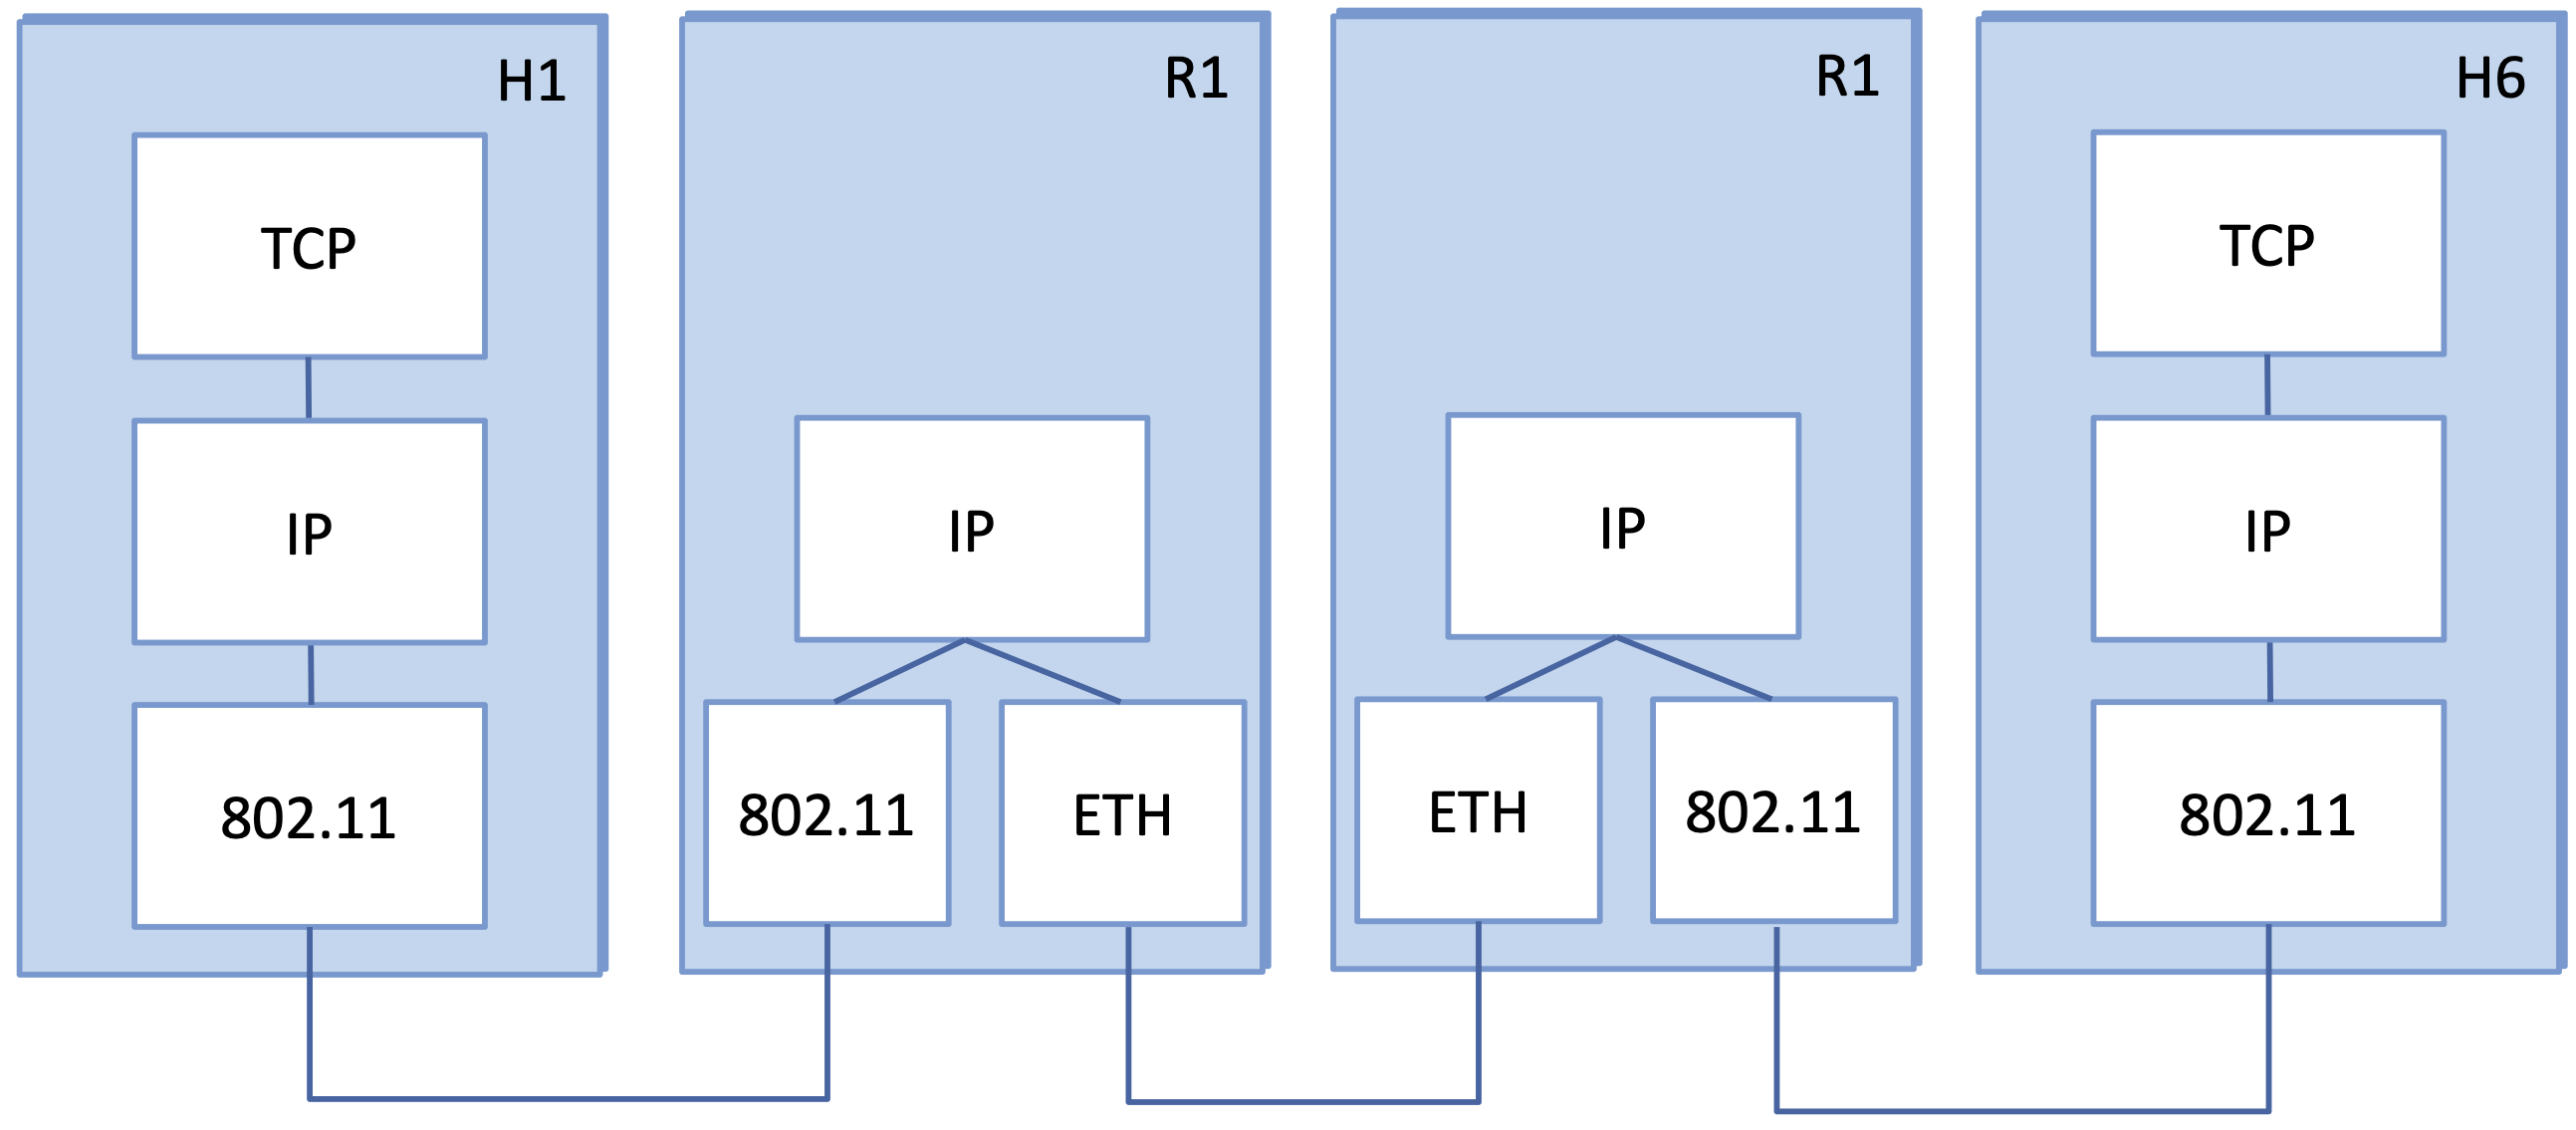
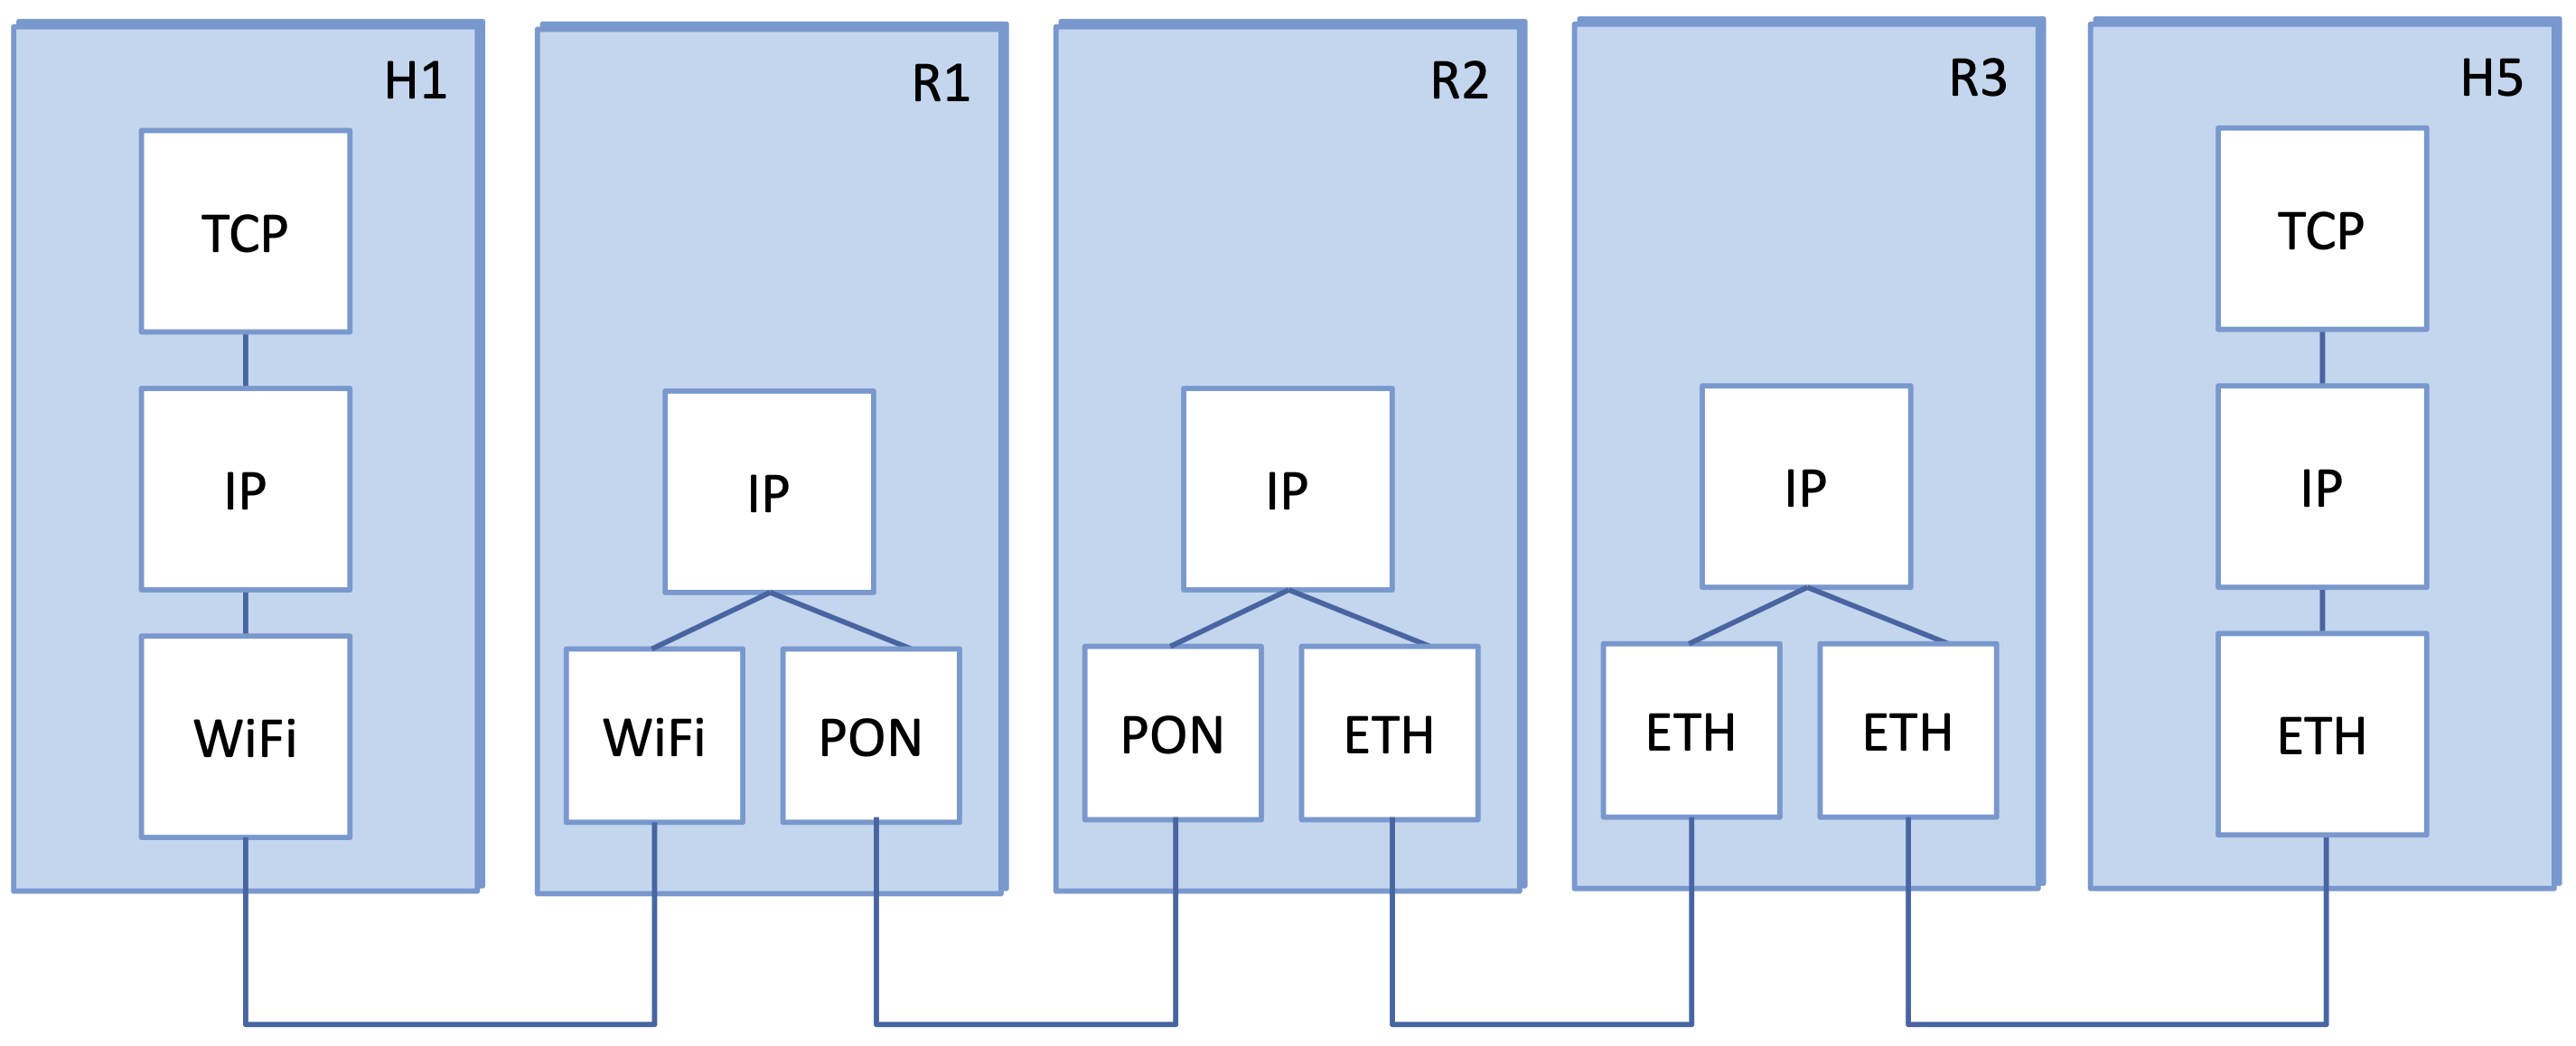
reworked inet example

diff --git a/federation/hetero.rst b/federation/hetero.rst
@@ -31,21 +31,37 @@ IP makes every effort to deliver datagrams, it makes no guarantees. We
 postpone a discussion of the addressing scheme for now and look first at
 the data delivery model.
 
-Datagram Delivery
+Before looking at the details of the IP service model, we first
+explain a bit of history. At the time IP was defined, the decision to
+make it connectionless was revolutionary. Telcos were the dominate
+communication provider, and they supported circuit-based service
+models. The circuit model defines a procedure to first establish an
+end-to-end connection, which includes allocating resources at all the
+switches along the circuit's path. Expecting a packet to successfully
+traverse a sequence of best-effort packet switches, each of which
+statistically multiplexes its resources, was innovative. As a
+consequence, early Internet documents referred to IP as providing a
+"connectionless datagram" service model, so as to distinguish it from
+the current standard practice. We usually refer to them as IP packets
+(rather than IP datagrams) in this book, since they are the current
+best practice, but any of the terms "best effort", "statistical
+multiplexing", and "connectionless datagram" should interpreted as
+roughly equivalent ways of talking about the same idea.
+
+Packet Delivery
 ++++++++++++++++++
 
-
-The IP datagram is fundamental to the Internet Protocol. Every
-datagram carries enough information to let the network forward the
-packet to its correct destination; there is no need for any advance
-setup mechanism to tell the network what to do when the packet
-arrives. You just send it, and the network makes its best effort to
-get it to the desired destination.  The “best-effort” part means that
-if something goes wrong and the packet gets lost, corrupted,
-misdelivered, or in any way fails to reach its intended destination,
-the network does nothing—it made its best effort, and that is all it
-has to do. It does not make any attempt to recover from the
-failure. This is sometimes called an *unreliable* service.
+The IP packet is fundamental to the Internet Protocol. Every packet
+carries enough information to let the network forward the packet to
+its correct destination; there is no need for any advance setup
+mechanism to tell the network what to do when the packet arrives. You
+just send it, and the network makes its best effort to get it to the
+desired destination.  The “best-effort” part means that if something
+goes wrong and the packet gets lost, corrupted, misdelivered, or in
+any way fails to reach its intended destination, the network does
+nothing—it made its best effort, and that is all it has to do. It does
+not make any attempt to recover from the failure. This is sometimes
+called an *unreliable* service.
 
 Best-effort, connectionless service is about the simplest service you
 could ask for from an internetwork, and this is its great strength. For
@@ -75,7 +91,7 @@ Packet Format
 +++++++++++++++++
 
 Clearly, a key part of the IP service model is the type of packets
-that can be carried. The IP datagram, like most packets, consists of a
+that can be carried. The IP packet consists of a
 header followed by a number of bytes of data. The format of the header
 (for IP version 4)
 is shown in :numref:`Figure %s <fig-iphead>`. As we saw in Chapter 4,
@@ -102,7 +118,7 @@ Looking at each field in the IP header, we see that the “simple” model
 of best-effort datagram delivery still has some subtle features. The
 ``Version`` field specifies the version of IP. The most widely deployed version
 of IP is 4, which is typically called *IPv4*. Observe that putting this
-field right at the start of the datagram makes it easy for everything
+field right at the start of the packet makes it easy for everything
 else in the packet format to be redefined in subsequent versions; the
 header processing software starts off by looking at the version and then
 branches off to process the rest of the packet according to the
@@ -115,9 +131,9 @@ differently based on application needs. For example, the ``TOS`` value
 might determine whether or not a packet should be placed in a special
 queue that receives low delay.
 
-The next 16 bits of the header contain the ``Length`` of the datagram,
+The next 16 bits of the header contain the ``Length`` of the packet,
 including the header. Unlike the ``HLen`` field, the ``Length`` field
-counts bytes rather than words. Thus, the maximum size of an IP datagram
+counts bytes rather than words. Thus, the maximum size of an IP packet
 is 65,535 bytes. The physical network over which IP is running, however,
 typically does not support such long packets. For this reason, IP supports a
 fragmentation and reassembly process. The second word of the header
@@ -316,11 +332,11 @@ packets, and it is those addresses that are used in IP routers to make
 forwarding decisions.
 
 
-6.2.3 Datagram Forwarding in IP
+6.2.3 Packet Forwarding
 ~~~~~~~~~~~~~~~~~~~~~~~~~~~~~~~
 
 We are now ready to look at the basic mechanism by which IP routers
-forward datagrams in an internetwork. Recall that *forwarding* is the
+forward packets in an internetwork. Recall that *forwarding* is the
 process of taking a packet from an input and sending it out on the
 appropriate output (we looked at this in depth in Chapter 2), while
 *routing* is the process of building up the tables that allow the
@@ -329,9 +345,9 @@ of this in Chapter 4). The discussion here focuses on forwarding; we
 return to routing in the next chapter.
 
 The main points to bear in mind as we discuss the forwarding of IP
-datagrams are the following:
+packets are the following:
 
--  Every IP datagram contains the IP address of the destination host.
+-  Every packet contains the IP address of the destination host.
 
 -  The network part of an IP address uniquely identifies a single
    physical network that is part of the larger Internet.
@@ -345,8 +361,8 @@ datagrams are the following:
    physical network; this router can exchange packets with hosts or
    routers on either network.
 
-Forwarding IP datagrams can therefore be handled in the following way. A
-datagram is sent from a source host to a destination host, possibly
+Forwarding IP packets can therefore be handled in the following way. A
+packet is sent from a source host to a destination host, possibly
 passing through several routers along the way. Any node, whether it is a
 host or a router, first tries to establish whether it is connected to
 the same physical network as the destination. To do this, it compares
@@ -359,10 +375,10 @@ interface, and the packet can be directly delivered over that network. A
 later section explains some of the details of this process.
 
 If the node is not connected to the same physical network as the
-destination node, then it needs to send the datagram to a router. In
+destination node, then it needs to send the packet to a router. In
 general, each node will have a choice of several routers, and so it
 needs to pick the best one, or at least one that has a reasonable chance
-of getting the datagram closer to its destination. The router that it
+of getting the packet closer to its destination. The router that it
 chooses is known as the *next hop* router. The router finds the correct
 next hop by consulting its forwarding table. The forwarding table is
 conceptually just a list of ``(NetworkNum, NextHop)``\ pairs. (As we
@@ -371,10 +387,10 @@ additional information related to the next hop.) Normally, there is also
 a default router that is used if none of the entries in the table
 matches the destination’s network number. For a host, it is more
 common to simply have a default router and nothing else—this means that all
-datagrams destined for hosts not on the physical network to which the
+packets destined for hosts not on the physical network to which the
 sending host is attached will be sent to the default router.
 
-We can describe the datagram forwarding algorithm in the following way:
+We can describe the forwarding algorithm in the following way:
 
 ::
 
@@ -397,26 +413,26 @@ forwarding table, this simplifies to
        deliver packet to default router
 
 Let’s see how this works in the example internetwork of :numref:`Figure
-%s <fig-inet>`. First, suppose that H1 wants to send a datagram to H2.
+%s <fig-inet>`. First, suppose that H1 wants to send a packet to H2.
 Since they are on the same physical network, H1 and H2 have the same
 network number in their IP address. Thus, H1 deduces that it can deliver
-the datagram directly to H2 over the Ethernet. The one issue that needs
+the packet directly to H2 over the Ethernet. The one issue that needs
 to be resolved is how H1 finds out the correct Ethernet address for
-H2—the address resolution mechanism known as ARP, described below, addresses this
-issue.
+H2—the address resolution mechanism known as ARP, described below,
+addresses this issue.
 
-Now suppose H5 wants to send a datagram to H8. Since these hosts are
-on different physical networks, they have different network numbers,
-so H5 deduces that it needs to send the datagram to a router. R1 is
-the only choice—the default router—so H1 sends the datagram over the
+Now suppose H1 wants to send a packet to H5. Since these hosts are on
+different physical networks, they have different network numbers, so
+H1 deduces that it needs to send the packet to a router. R1 is the
+only choice—the default router—so H1 sends the packet over the
 wireless network to R1. Similarly, R1 knows that it cannot deliver a
-datagram directly to H8 because neither of R1’s interfaces are on the
-same network as H8. Suppose R1’s default router is R2; R1 then sends
-the datagram to R2 over the Ethernet. Assuming R2 has the forwarding
-table shown in :numref:`Table %s <tab-ipfwdtab>`, it looks up H8’s
-network number (network 4) and forwards the datagram over the
-point-to-point network to R3. Finally, R3, since it is on the same
-network as H8, forwards the datagram directly to H8.
+packet directly to H5 because neither of R1’s interfaces are on the
+same network as H5. Suppose R1’s default router is R2; R1 sends the
+packet to R2 over the PON link.  Assuming R2 has the forwarding table
+shown in :numref:`Table %s <tab-ipfwdtab>`, it looks up H5’s network
+number (network 4) and forwards the packet over the packet-switched
+network to R3. Finally, R3, since it is on the same network as H5,
+forwards the packet directly to H5.
 
 .. _tab-ipfwdtab:
 .. table:: Forwarding table for Router R2.
@@ -432,11 +448,11 @@ network as H8, forwards the datagram directly to H8.
    +------------+---------+
 
 Note that it is possible to include the information about directly
-connected networks in the forwarding table. For example, we could label
-the network interfaces of router R2 as interface 0 for the
-point-to-point link (network 3) and interface 1 for the Ethernet
-(network 2). Then R2 would have the forwarding table shown
-in :numref:`Table %s <tab-ipfwdtab2>`.
+connected networks in the forwarding table. For example, we could
+label the network interfaces of router R2 as interface 0 for the
+Ethernet (network 3) and interface 1 for the point-to-point link
+(network 2). Then R2 would have the forwarding table shown in
+:numref:`Table %s <tab-ipfwdtab2>`.
 
 .. _tab-ipfwdtab2:
 .. table:: Complete Forwarding table for Router R2.
@@ -491,23 +507,23 @@ by no means the last) in achieving scalability.
    networks at the top level and nodes at the bottom level. We have
    aggregated information by letting routers deal only with reaching the
    right network; the information that a router needs to deliver a
-   datagram to any node on a given network is represented by a single
+   packet to any node on a given network is represented by a single
    aggregated piece of information.
 
 6.2.5 Address Translation (ARP)
 ~~~~~~~~~~~~~~~~~~~~~~~~~~~~~~~~
 
-We have talked about how to get IP datagrams to the
+We have talked about how to get IP packets to the
 right physical network but glossed over the issue of how to get a
-datagram to a particular host or router on that network. The main issue
-is that IP datagrams contain IP addresses, but the physical interface
-hardware on the host or router to which you want to send the datagram
+packet to a particular host or router on that network. The main issue
+is that IP packet contain IP addresses, but the physical interface
+hardware on the host or router to which you want to send the packet
 only understands the addressing scheme of that particular network. Thus,
 we need to translate the IP address to a link-level address that makes
 sense on this network (e.g., a 48-bit Ethernet or Wi-Fi address). We can then
-encapsulate the IP datagram inside a frame that contains that link-level
+encapsulate the IP packet inside a frame that contains that link-level
 address and send it either to the ultimate destination or to a router
-that promises to forward the datagram toward the ultimate destination.
+that promises to forward the packet toward the ultimate destination.
 
 
 The general solution is for each host to maintain a table of
@@ -526,7 +542,7 @@ currently stored in a host is known as the ARP cache or ARP table.
 
 ARP takes advantage of the fact that many link-level network
 technologies, such as Ethernet and Wi-Fi, support broadcast. If a host wants to
-send an IP datagram to a host (or router) that it knows to be on the
+send an IP packet to a host (or router) that it knows to be on the
 same network (i.e., the sending and receiving nodes have the same IP
 network number), it first checks for a mapping in the cache. If no
 mapping is found, it needs to invoke the Address Resolution Protocol
@@ -586,6 +602,6 @@ and target, the packet contains
 
 Note that the results of the ARP process can be added as an extra column
 in a forwarding table like the one in :numref:`Table %s <tab-ipfwdtab>`.
-Thus, for example, when R2 needs to forward a packet to network 2, it
-not only finds that the next hop is R1, but also finds the MAC address
-to place on the packet to send it to R1.
+Thus, for example, when R2 needs to forward a packet to network 3, it
+not only finds that the next hop is R3, but also finds the MAC address
+to place on the packet to send it to R3.

diff --git a/federation/design.rst b/federation/design.rst
@@ -60,23 +60,31 @@ Internet.
    :width: 600px
    :align: center
 
-   A simple internetwork, with two routers (R1 and R2) connecting
-   three networks.
+   A simplified internetwork, showing possible connectivity from a set
+   of Wi-Fi connected workstations to a set of servers in a remote
+   datacenter, via a PON access link and an Ethernet-based
+   backbone. The path traverses routers R1, R2, and R3.
 
 
 :numref:`Figure %s <fig-inet>` shows an example internetwork. An
 internetwork is often referred to as a “network of networks” because
 it is made up of lots of smaller networks. In this figure, we see a
-switched Ethernet and two Wi-Fi networks. Each of these is a
-single-technology network. The nodes that interconnect the networks
-are called *routers*.  They historically were also sometimes called
-*gateways*, but since this term has several other connotations, we
-restrict our usage to router.\ [#]_
+Wi-Fi based local network, a PON-based access network, a switched
+Ethernet (representing a wide-area backbone), and an Ethernet-based
+switching fabric in a datacenter. The nodes that interconnect the
+networks are called *routers*.  They historically were also sometimes
+called *gateways*, but since this term has several other connotations,
+we restrict our usage to router.\ [#]_
 
-.. [#] As we saw in Chapter 2, our other option is to call them L3
-   switches, but we reserve that name for when we use IP *within* a
-   packet-switched network, and we reserve the word "router" for a
-   device that interconnects two or more distinct networks.
+.. [#] As we saw in Chapter 2, whether a switch forwards L2 frames or
+       L3 packets is often a matter of configuration. This means our
+       other option is to call them L3 switches, but we reserve that
+       name for when we use IP *within* a packet-switched network—as
+       is often the case with a datacenter switching fabric or a
+       wide-area backbone—and we reserve the word "router" for a
+       forwarding device that interconnects two or more distinct
+       networks. This distinction is depicted in figures by using a
+       cylinder icon for a router.
 
 .. _fig-ip-graph:
 .. figure:: federation/figures/ip-graph.png
@@ -84,19 +92,22 @@ restrict our usage to router.\ [#]_
    :align: center
 
    A simple internetwork, showing the protocol layers used to connect
-   H1 to H6 in the above figure. ETH is the protocol that runs over
-   the Ethernet and 802.11 is the Wi-Fi protocol.
+   H1 to H5 in the previous figure. ETH denotes the MAC protocol that
+   connects to an Ethernet, PON denotes the MAC protocol that connects
+   to a Passive Optical Network, and Wi-Fi denotes the MAC protocol
+   that connects to Wi-Fi.
 
 The *Internet Protocol* is the key tool used today to build scalable,
 heterogeneous internetworks. It was originally known as the Kahn-Cerf
-protocol after its inventors. One way to think of IP is that it runs on
-all the nodes (both hosts and routers) in a collection of networks and
-defines the infrastructure that allows these nodes and networks to
-function as a single logical internetwork. For example, :numref:`Figure
-%s <fig-ip-graph>` shows how hosts H1 and H6 are logically connected by
-the internet in :numref:`Figure %s <fig-inet>`, including the protocol graph
-running on each node. Note that higher-level protocols, such as TCP and
-UDP, typically run on top of IP on the hosts.
+protocol after its inventors. One way to think of IP is that it runs
+on all the nodes (both hosts and routers) in a collection of networks
+and defines the infrastructure that allows these nodes and networks to
+function as a single logical internetwork. For example,
+:numref:`Figure %s <fig-ip-graph>` shows how hosts H1 and H5 are
+logically connected by the internet in :numref:`Figure %s <fig-inet>`,
+including the protocol graph running on each node. Note that
+higher-level protocols, such as TCP and UDP, typically run on top of
+IP on the hosts.
 
 The design goals listed in the design philosophy paper give a good
 overview of the issues that need to be tackled in an internetwork:

diff --git a/federation/scale.rst b/federation/scale.rst
@@ -140,15 +140,15 @@ shown in :numref:`Table %s <tab-subnettab>`.
    | 128.96.33.0   | 255.255.255.0   | R2          |
    +---------------+-----------------+-------------+
 
-Continuing with the example of a datagram from H1 being sent to H2, R1
+Continuing with the example of a packet from H1 being sent to H2, R1
 would AND H2’s address (128.96.34.139) with the subnet mask of the first
 entry (255.255.255.128) and compare the result (128.96.34.128) with the
 network number for that entry (128.96.34.0). Since this is not a match,
 it proceeds to the next entry. This time a match does occur, so R1
-delivers the datagram to H2 using interface 1, which is the interface
+delivers the packet to H2 using interface 1, which is the interface
 connected to the same network as H2.
 
-We can now describe the datagram forwarding algorithm in the following
+We can now describe the forwarding algorithm in the following
 way:
 
 ::
@@ -158,9 +158,9 @@ way:
        D1 = SubnetMask & D
        if D1 = SubnetNumber
            if NextHop is an interface
-               deliver datagram directly to destination
+               deliver packet directly to destination
            else
-               deliver datagram to NextHop (a router)
+               deliver packet to NextHop (a router)
 
 Although not shown in this example, a default route would usually be
 included in the table and would be used if no explicit matches were

diff --git a/federation/securebgp.rst b/federation/securebgp.rst
@@ -218,7 +218,7 @@ such as an ISP or an RIR, then I can check the validity of something
 signed by that entity. And a certificate is just a cryptographically
 signed statement providing some information. For example, an RIR can sign a
 certificate the asserts that a certain ISP has a particular public
-key or a certain allocated set of addresses. 
+key or a certain allocated set of addresses.
 
 The chain of trust for address allocation starts from an RIR, the root
 of trust. An RIR allocates a chunk of address space to an ISP, and the
@@ -375,7 +375,7 @@ distributed using the same mechanisms as certificates.
    NIST. `RPKI Monitor <https://rpki-monitor.antd.nist.gov/ROV/>`__.
 
 
-   
+
 6.5.4 Path Validation (BGPsec)
 ~~~~~~~~~~~~~~~~~~~~~~~~~~~~~~
 